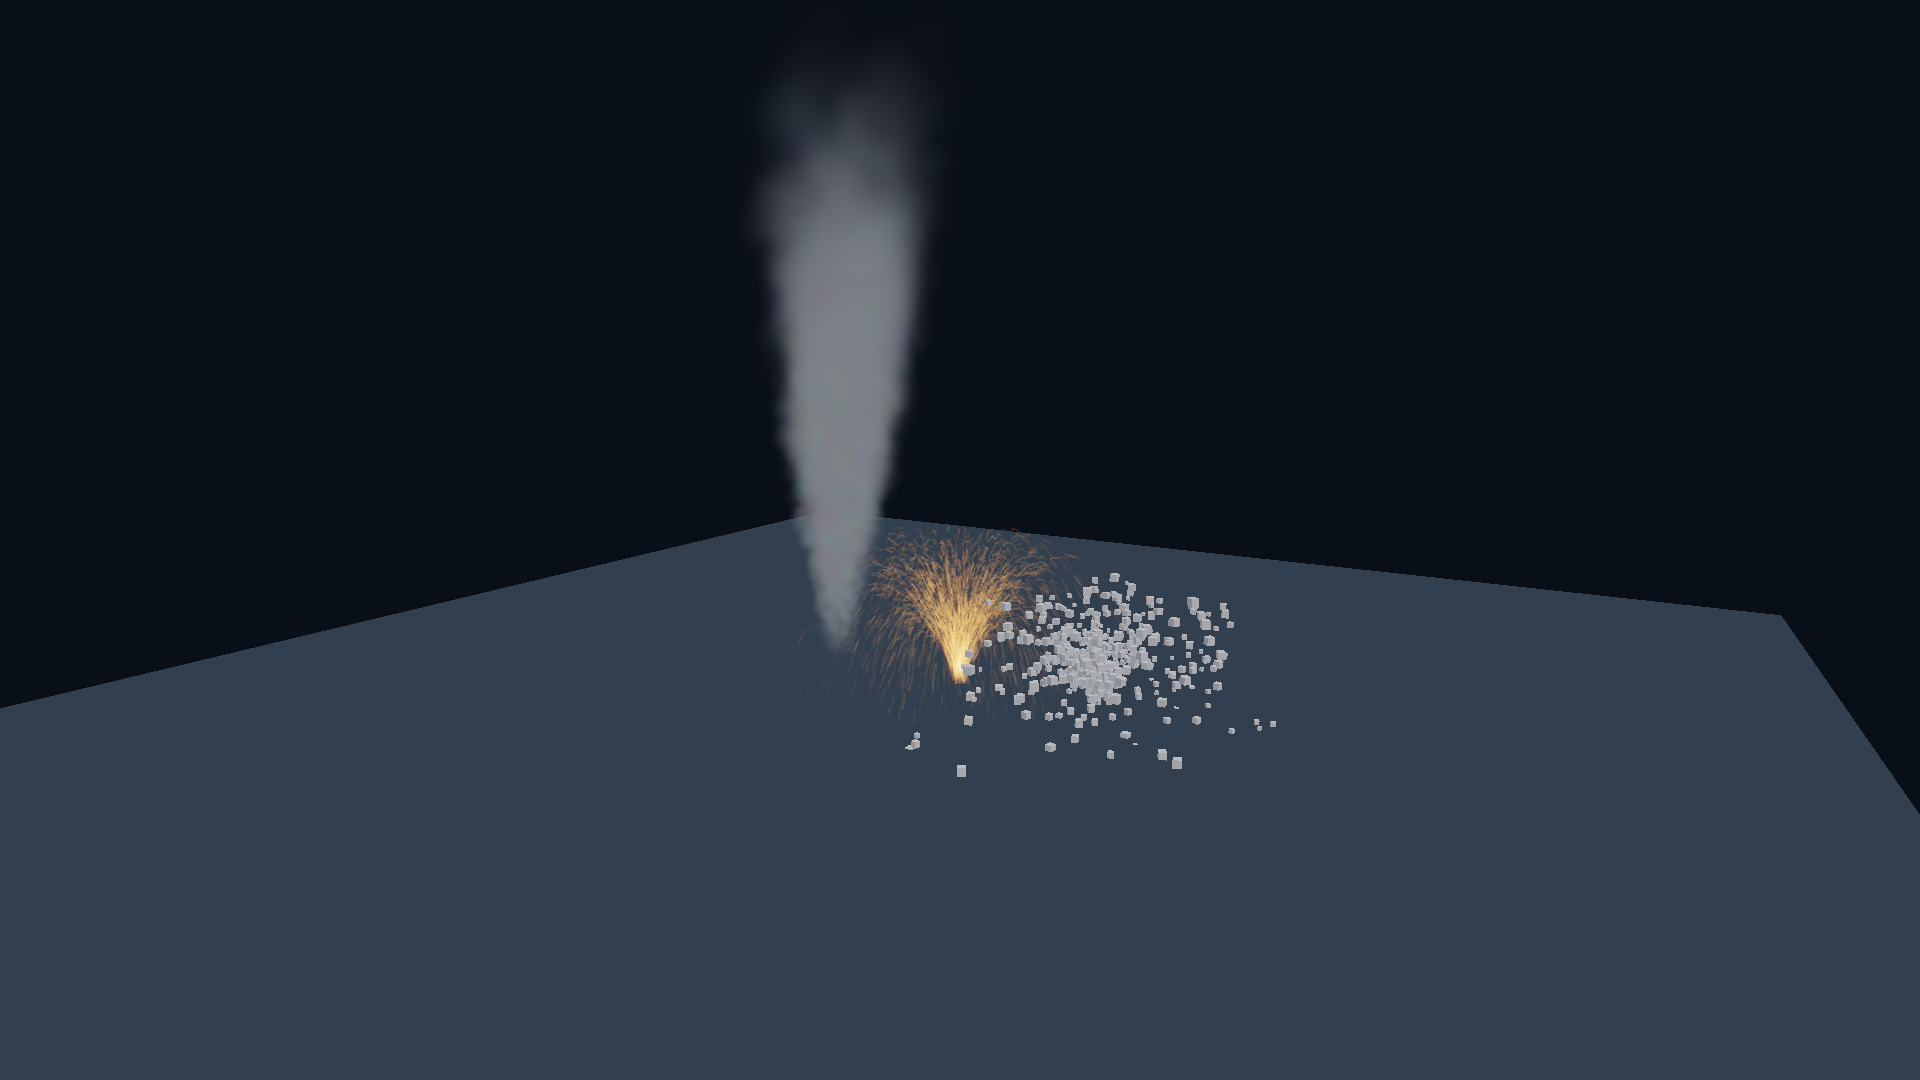
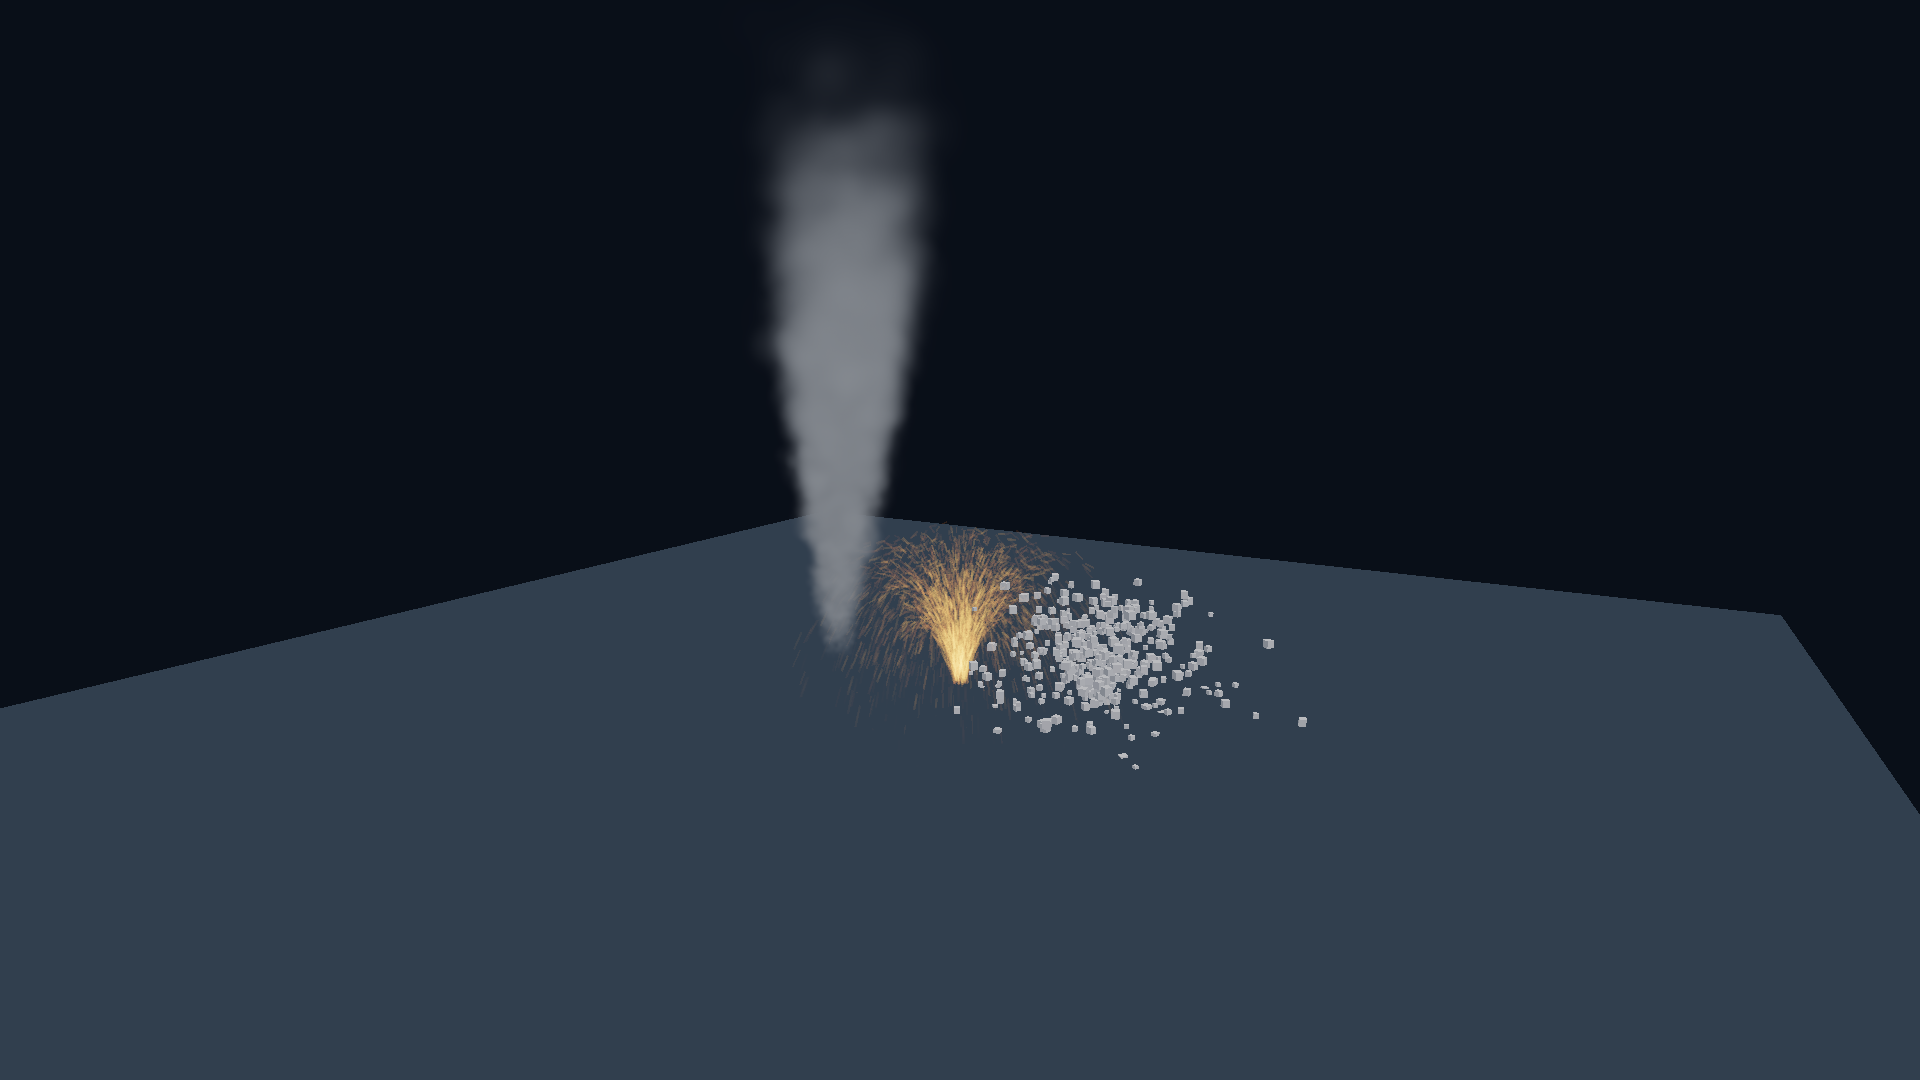
fix(particle): preserve palette interpolation and review fixes

Changed region(s): [[0.4375, 0.4889, 0.6562, 0.7028], [0.4062, 0.3972, 0.4375, 0.4278], [0.4062, 0.3056, 0.4375, 0.3361]]

diff --git a/docs/particles.md b/docs/particles.md
@@ -103,9 +103,11 @@ the same build. There is no cross-compiler/version bitwise guarantee.
 The seed is encoded as four little-endian bytes for Sfc32Random. Unit samples
 use the high 24 bits of its integer output. Shape draws precede lifetime, speed,
 size, rotation, spin and the particle's colour seed. Equal scalar endpoints still
-consume a draw. Colour is reconstructed from the stored seed with fixed integer
-hashes, then multiplied by the eight-sample colour table. Scalar and colour
-tables linearly interpolate normalized age/lifetime.
+consume a draw. One fixed integer hash of the stored seed supplies a single
+fraction for the RGBA lerp between `color_min` and `color_max`, then the result
+is multiplied by the eight-sample colour table. Colour endpoints may descend
+in any channel; each endpoint still requires nonnegative finite RGB and alpha
+in [0,1]. Scalar and colour tables linearly interpolate normalized age/lifetime.
 
 ## Draw modes and materials
 
@@ -145,6 +147,7 @@ delivery. Core billboard material restrictions are documented separately.
 python scripts/build.py --example particles
 python scripts/build.py --target particles --opt O3
 addons/c3d_particle.c3l/build/particles.exe --benchmark --frames 300
+addons/c3d_particle.c3l/build/particles.exe --stress --frames 300
 ```
 
 Linux uses `build/particles` without `.exe`. The window shows smoke, additive
@@ -152,13 +155,28 @@ stretched sparks and mesh debris, with emitting/burst controls, wind, smoke
 lighting/soft distance, spark blending and a second camera. Validation is always
 enabled. `--frames N` closes an interactive smoke test after N frames.
 
+The example reads `Renderer.adapter_name`, borrowed until renderer destruction,
+and calls `renderer.log.check_validation()` through core. The latter reports a
+backend validation error retained in the recent diagnostic ring; overwritten
+entries are no longer checked. Neither operation requires importing gpu.c3l.
+
+`--stress` runs only CPU work: one seeded system with 100,000 stretched
+billboards, emitted before timing, 60 warm-up updates and the requested number
+of measured updates. It reports simulation/publication, uncached
+`billboard_world_bounds` and `pack_billboard_records` separately. Every update
+advances the batch revision, so the bounds measurement rebuilds it. Packing
+writes a preallocated CPU array; upload and GPU execution are excluded. The
+printed checksum consumes bounds and packed output. `--stress` and
+`--benchmark` are separate modes.
+
 The headless benchmark uses one 1920x1080 display-output view without AA, 60
 rendered warm-up frames and 300 measured frames per segment. Active simulation
 is prewarmed for twenty simulated seconds. It reports actual live counts and
 matches delayed GPU results to the measured frame range. `--capture-rgba path`
 saves the last display-encoded RGBA8 image for inspection.
 
-Measured on September 30, 2026: Windows x64, NVIDIA GeForce RTX 4090, C3 0.8.3
+Baseline measured before the palette interpolation correction on September 30,
+2026: Windows x64, NVIDIA GeForce RTX 4090, C3 0.8.3
 `-O3`, Vulkan validation on, GPU+INTERNAL profiling, inline simulation. Means over
 300 frames; GPU measurements also contain 300 matched samples.
 
@@ -176,9 +194,27 @@ These are this scene's measurements, not a general performance guarantee. The
 measured CPU update is below the 1 ms executor follow-up threshold; parallel
 execution was not implemented or measured.
 
-Windows acceptance passed all 16 particle CPU tests and six Vulkan cases, with
-validation. Native Linux compilation and all 16 CPU tests also passed in WSL.
-WSL GPU acceptance remains unverified: both the test run and independent
-`vulkaninfo --summary` probes stalled in the local Vulkan environment.
+The 100,000-particle CPU stress baseline at `0e9cd0d` on an Intel Core i9-14900K, Windows x64,
+C3 0.8.3 `-O3`, produced the following medians of three runs. Each run measured
+300 updates after 60 warm-up updates, with 100,000 live and published particles
+throughout. Emission and allocation occur before timing.
+
+| CPU operation | Median | Range of run means |
+| --- | ---: | ---: |
+| Simulation and draw publication | 0.776409 ms | 0.767330–0.780976 ms |
+| Uncached billboard bounds | 0.267105 ms | 0.264326–0.272588 ms |
+| Billboard record packing | 0.600191 ms | 0.592434–0.604158 ms |
+
+Bounds and packing together cost about 0.867 ms in this stress case. Both
+convert every record to world space after a revision change; unchanged bounds
+are cached. This records the cost of that shared conversion without adding a
+second representation or an executor. It excludes emission, upload, sorting
+and rendering, and does not replace the default-scene measurement above.
+
+Windows acceptance passed all 17 particle CPU tests and six Vulkan cases, with
+validation. Native Linux compilation and the earlier 16 CPU tests passed in WSL
+before the palette regression test was added.
+WSL verification is limited to builds and CPU tests. GPU acceptance runs on
+Windows.
 
 ![Smoke, stretched sparks and mesh debris](images/particles.png)
